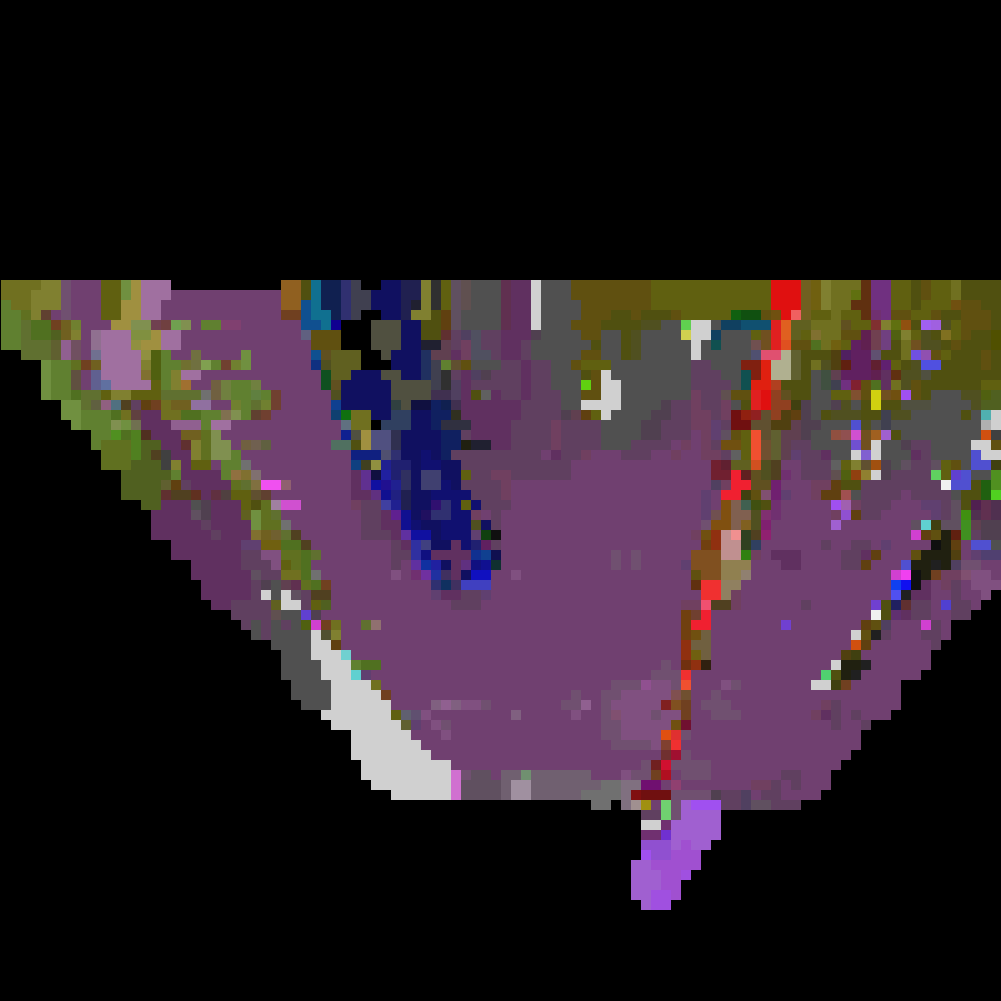
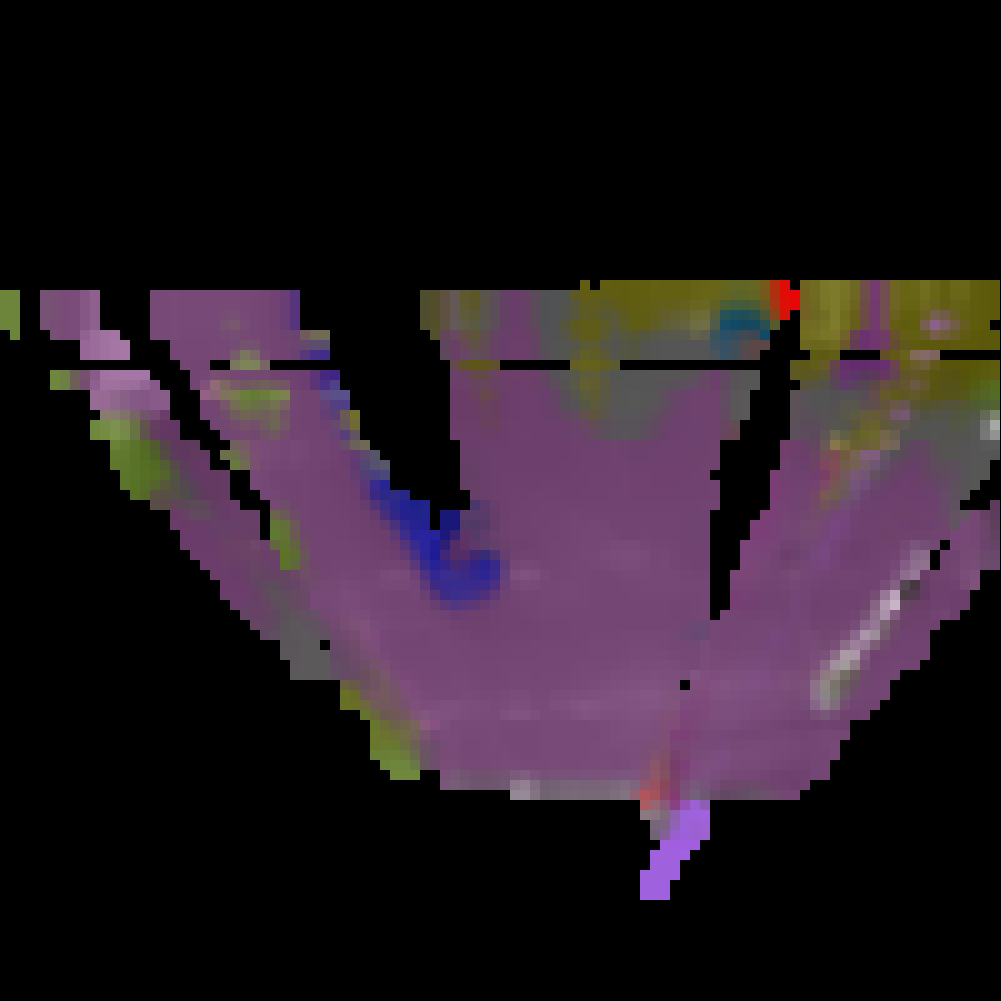
Update README

Changed region(s): [[0.0, 0.2787, 1.0, 0.9291], [0.8981, 0.6503, 0.9291, 0.6813], [0.7742, 0.6194, 0.8052, 0.6503]]

diff --git a/3dVis/GenerateOccupancyMap.py b/3dVis/GenerateOccupancyMap.py
@@ -28,53 +28,64 @@ for i in range(9, len(Lines)):
             image[1000 - pixels[1]][1000 - pixels[2]][2] = b
 
 image = cv2.rotate(image, cv2.ROTATE_90_CLOCKWISE)
-cv2.imwrite('./occupancy_map0'+'.png', image)
-overlay = cv2.imread('./maps/occupancy_map14.png')
+cv2.imwrite('occupancy_map0'+'.png', image)
 
-def resolute(image, max_res, min_res, overlay_image) :
-    for resol in range(min_res, max_res) :
-        res_y = resol
-        res_x = resol
-        fraction = 10
-        for i in range(int(image.shape[0]/res_x)) :
-            for j in range(int(image.shape[1]/res_y)) :
-                
-                seg = image[i*res_x:(i+1)*res_x, j*res_y:(j+1)*res_y, 0]
-                total, count = 0, 0
-                for x in range(seg.shape[0]):
-                    for y in range(seg.shape[1]):
-                        if seg[x][y] != 0 :
-                            count += 1
-                            total += seg[x][y]
-                    if count > (res_x *res_y)/fraction :
-                        image[i*res_x:(i+1)*res_x, j*res_y:(j+1)*res_y, 0] = total/count
-                        overlay_image[i*res_x:(i+1)*res_x, j*res_y:(j+1)*res_y, 0] = total/count
-                        
-                        
-                seg = image[i*res_x:(i+1)*res_x, j*res_y:(j+1)*res_y, 1]
-                total, count = 0, 0
-                for x in range(seg.shape[0]):
-                    for y in range(seg.shape[1]):
-                        if seg[x][y] != 0 :
-                            count += 1
-                            total += seg[x][y]
-                    if count > (res_x *res_y)/fraction :
-                        image[i*res_x:(i+1)*res_x, j*res_y:(j+1)*res_y, 1] = total/count
-                        overlay_image[i*res_x:(i+1)*res_x, j*res_y:(j+1)*res_y, 1] = total/count
-                        
-                        
-                seg = image[i*res_x:(i+1)*res_x, j*res_y:(j+1)*res_y, 2]
-                total, count = 0, 0
-                for x in range(seg.shape[0]):
-                    for y in range(seg.shape[1]):
-                        if seg[x][y] != 0 :
-                            count += 1
-                            total += seg[x][y]
-                    if count > (res_x *res_y)/fraction :
-                        image[i*res_x:(i+1)*res_x, j*res_y:(j+1)*res_y, 2] = total/count
-                        overlay_image[i*res_x:(i+1)*res_x, j*res_y:(j+1)*res_y, 2] = total/count
-                        
-            cv2.imwrite('./maps/occupancy_map'+ str(resol) + '.png', overlay_image)
+actual_res = 15
+cut_off = 8
+
+for res in range(5, actual_res):
+ for i in range(int(1000/res)):
+     for j in range(int(1000/res)):
+
+         seg = image[i*res:(i+1)*res,j*res:(j+1)*res,0]
+         count = 0
+         total = 0
+
+         for x in range(seg.shape[0]):
+             for y in range(seg.shape[1]):
+                 if seg[x][y] != 0 :
+                     count += 1
+                 total += seg[x][y]
+
+         if count != 0 :
+             r = total/count
+             if count > int(res*res/cut_off) :
+                 image[i*res:(i+1)*res,j*res:(j+1)*res,0] = int(r)
+             else :
+                 image[i*res:(i+1)*res,j*res:(j+1)*res,0] = 0
 
 
-resolute(image, 101, 100, overlay)
+
+         seg = image[i*res:(i+1)*res,j*res:(j+1)*res,1]
+         count = 0
+         total = 0
+
+         for x in range(seg.shape[0]):
+             for y in range(seg.shape[1]):
+                 if seg[x][y] != 0 :
+                     count += 1
+                 total += seg[x][y]
+         if count != 0 :
+             g = total/count
+             if count > int(res*res/cut_off) :
+                 image[i*res:(i+1)*res,j*res:(j+1)*res,1] = int(g)
+             else :
+                 image[i*res:(i+1)*res,j*res:(j+1)*res,1] = 0
+
+
+         seg = image[i*res:(i+1)*res,j*res:(j+1)*res,2]
+         count = 0
+         total = 0
+
+         for x in range(seg.shape[0]):
+             for y in range(seg.shape[1]):
+                 if seg[x][y] != 0 :
+                     count += 1
+                 total += seg[x][y]
+         if count != 0 :
+             b = total/count
+             if count > int(res*res/cut_off):
+                 image[i*res:(i+1)*res,j*res:(j+1)*res,2] = int(b)
+             else :
+                 image[i*res:(i+1)*res,j*res:(j+1)*res,2] = 0
+ cv2.imwrite('./maps/occupancy_map'+str(res)+'.png', image)

diff --git a/README.md b/README.md
@@ -2,13 +2,15 @@
 Using pre-trained Deep Learning models and Transformations for generating occupancy maps.
 
 ## Note
-If you find any difficulty in using some notebook or script, please feel free to create an issue. This is a work in progress and I will keep making changes to the repository for a while. 
+If you find any difficulty in using some notebook or script, please feel free to create an issue. This is a work in progress and I will keep making changes to the repository for a while.
 
 ## Occupancy Maps
 Occupancy Grid Mapping refers to a family of computer algorithms which address the problem of generating maps from noisy and uncertain data.
 
 ## Algorithm
 The system takes a stereo pair and generates a depth map(using PSMNet) and instance segmented scene(using maskrcnn). We then use these to get a 3D Model of the scene. This 3d model is projected to the ground to get the occupancy grid.
+!["Algorithmic Pipeline"](./HowToUse/pipeline.png)
+
 
 ## Depth Image
 In CV, a depth image contains information about depth of surfaces presents in the image. s
